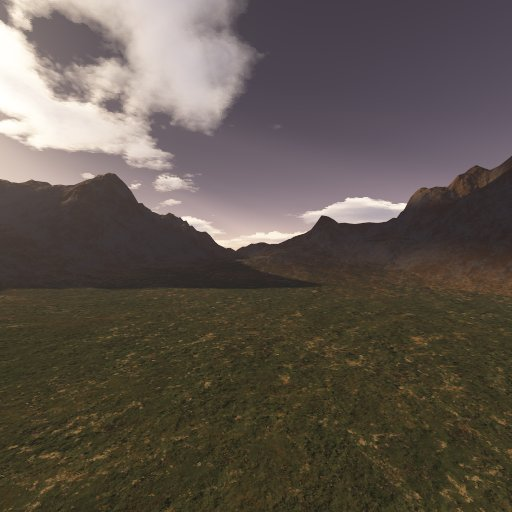
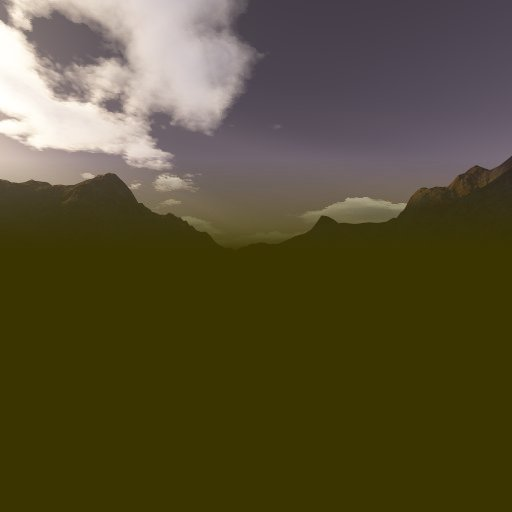
added dirty fog to the IrrOdeCar demo.

diff --git a/trunk/source/IrrOde/CIrrOdeContactParameters.cpp b/trunk/source/IrrOde/CIrrOdeContactParameters.cpp
@@ -7,6 +7,8 @@ namespace ode {
 void CIrrOdeContactParameters::calculateContactParameters(CIrrOdeSurfaceParameters *pParam1, CIrrOdeSurfaceParameters *pParam2, CIrrOdeSurfaceParameters *pParams) {
   s32 iMode=pParam1->getMode()&pParam2->getMode();
 
+  pParams->setMode(iMode);
+
   if (pParam1->getMode()&eContactApprox1 || pParam2->getMode()&eContactApprox1) pParams->setModeApprox1(true);
   if (pParam1->getMode()&eContactApprox1_1 || pParam2->getMode()&eContactApprox1_1) pParams->setModeApprox1_1(true);
   if (pParam1->getMode()&eContactApprox1_2 || pParam2->getMode()&eContactApprox1_2) pParams->setModeApprox1_2(true);
@@ -15,7 +17,8 @@ void CIrrOdeContactParameters::calculateContactParameters(CIrrOdeSurfaceParamete
   if (pParam1->getModeSlip1 () || pParam2->getModeSlip1 ()) pParams->setModeSlip1(true);
   if (pParam1->getModeSlip2 () || pParam2->getModeSlip2 ()) pParams->setModeSlip2(true);
 
-  pParams->setMode(iMode);
+  if (pParam1->getModeSoftCFM() || pParam2->getModeSoftCFM()) pParams->setModeSoftCFM(true);
+  if (pParam1->getModeSoftERP() || pParam2->getModeSoftERP()) pParams->setModeSoftERP(true);
 
   pParams->setMu       (sqrt(pParam1->getMu()       *pParam2->getMu()       )     );
   pParams->setMu2      (sqrt(pParam1->getMu2()      *pParam2->getMu2()      )     );

diff --git a/trunk/source/IrrOdeCar/irrodecar_main.cpp b/trunk/source/IrrOdeCar/irrodecar_main.cpp
@@ -443,7 +443,7 @@ int main(int argc, char** argv) {
     if (!p->physicsInitialized()) printf("\t\t--> %i (%s)\n",p->getID(),p->getName());
   }
 
-  driver->setFog(video::SColor(0xFF,0xA0,0xA0,0xC0),video::EFT_FOG_LINEAR,1750.0f,2100.0f,0.00001f,true,false);
+  driver->setFog(video::SColor(0xFF,0x3A,0x34,0x00),video::EFT_FOG_LINEAR,1750.0f,2100.0f,0.00001f,true,false);
   enableFog(smgr->getRootSceneNode());
 
   u32 iFrames=0,iTotalFps=0;
